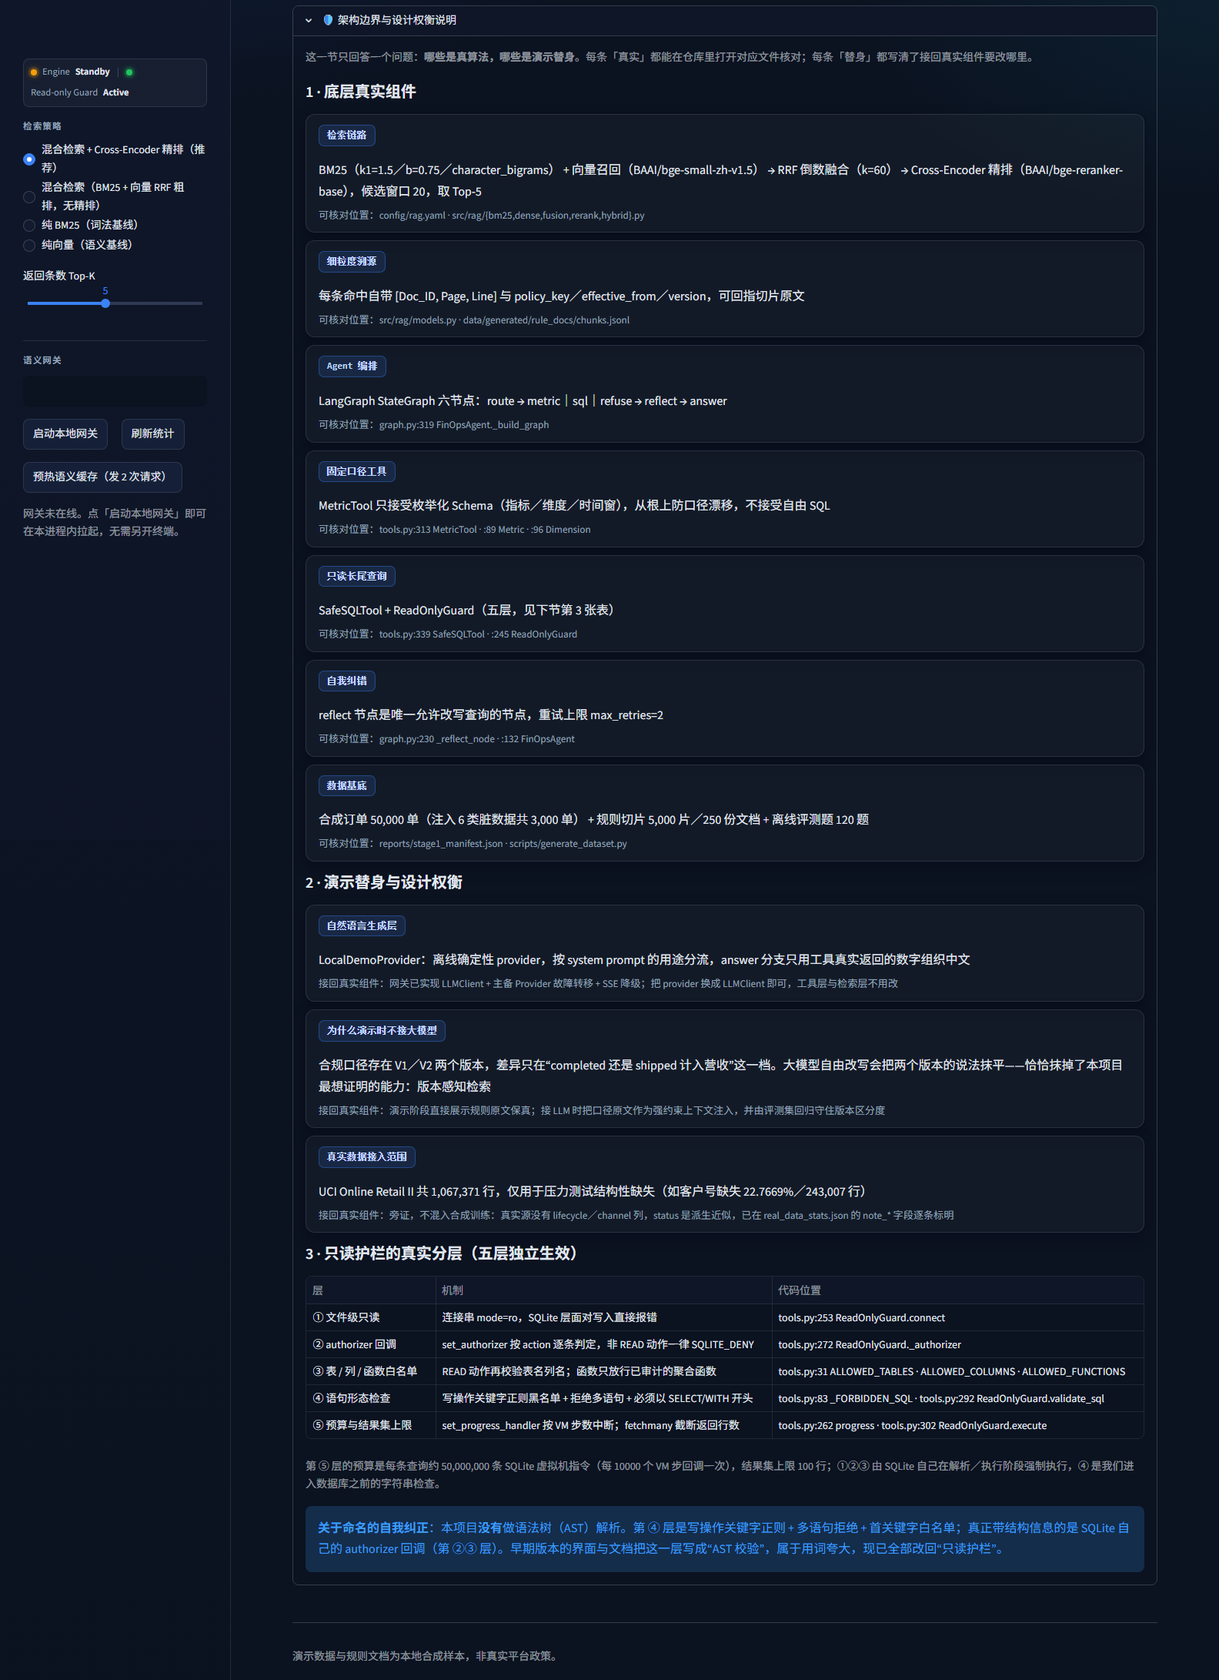
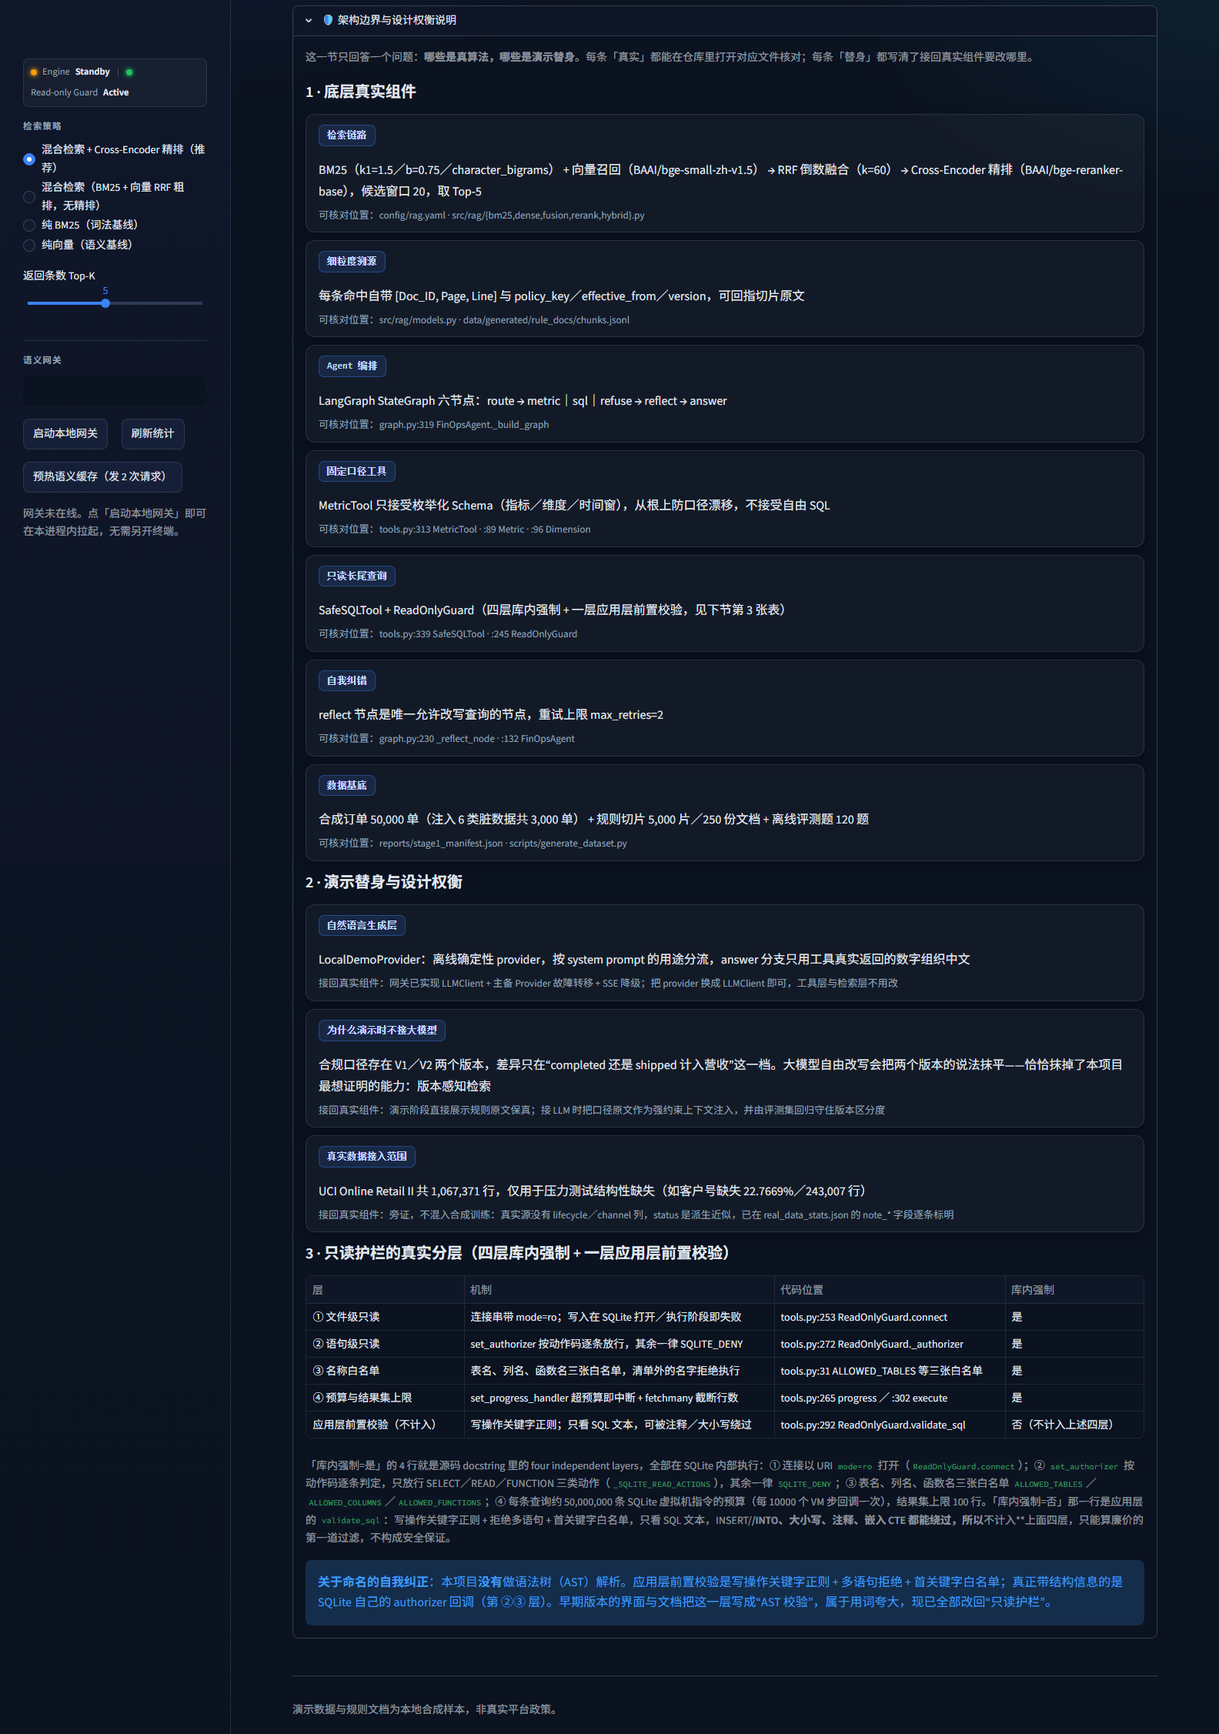
fix(app): 只读护栏改为「四层库内强制 + 一层应用层前置校验」
源码 src/agent/tools.py 的模块 docstring 原话是 read-only at four independent
layers：mode=ro / set_authorizer / 表与函数白名单 / VM 预算。而 validate_sql
是应用层、只看 SQL 文本（INSERT/**/INTO、大小写、注释、嵌入 CTE 都能绕过），
它不在那四层里，之前被写成「第 ⑤ 层」并冠以「AST 校验」，属于把应用层
过滤混进了安全保证，用词也夸大（本项目从未做过语法树解析）。

- 护栏表新增「库内强制」列：4 行=是（SQLite 内部强制执行），1 行=否（不计入）
- 标题与回复话术同步改为「四层库内强制 + 一层应用层前置校验」
- 表格行数改由 len(READONLY_LAYERS) 推导，不再写死「4 行」
  （触发了看板手抄数字棘轮测试，这正说明该测试有效）
- 自我纠正段落补上「只能算廉价的第一道过滤，不构成安全保证」

验证：pytest 73 passed；apptest_check 五条链路（Agent/RAG/护栏/对抗 A/B）全绿；截图 11 重拍，总览图重拼。

diff --git a/app/streamlit_app.py b/app/streamlit_app.py
@@ -1879,16 +1879,42 @@ def _arch_code_facts() -> dict[str, Any]:
     return facts
 
 
-# 只读护栏的五层。写在这里而不是从代码里反射，是因为「哪一层拦下了哪条 payload」
-# 是本页要讲的结论；表里的行列名与 payload 结果由 tests/unit/test_benchmark_panel.py
-# 对着 src/agent/tools.py 与 tests 固化。
+# 只读护栏的分层口径**以源码为准**：src/agent/tools.py:9-16 的模块 docstring 写的是
+# "read-only at four independent layers"，ReadOnlyGuard 的类 docstring 也是
+# "Four independent read-only layers"。写在这里而不是从代码里反射，是因为
+# 「哪一层拦下了哪条 payload」是本页要讲的结论；表里的行列名与 payload 结果由
+# tests/unit/test_benchmark_panel.py 对着 src/agent/tools.py 与 tests 固化。
+#
+# 下面四层都在 SQLite 内部强制执行；validate_sql 单列一行、**不计入**这四层（见 APPLICATION_PRE_CHECK）。
+# 单元格文字刻意压短：st.dataframe 不折行，超宽会被横向裁掉（旧版「机制」列就是这样
+# 少了半句）。被裁掉的具体常量名与数值统一放到表下的 caption 里说清楚——表格负责结构
+# 一眼可读，caption 负责逐条可核对，两边合起来才是完整证据。
 READONLY_LAYERS: tuple[tuple[str, str, str], ...] = (
-    ("① 文件级只读", "连接串 mode=ro，SQLite 层面对写入直接报错", "tools.py:253 ReadOnlyGuard.connect"),
-    ("② authorizer 回调", "set_authorizer 按 action 逐条判定，非 READ 动作一律 SQLITE_DENY", "tools.py:272 ReadOnlyGuard._authorizer"),
-    ("③ 表 / 列 / 函数白名单", "READ 动作再校验表名列名；函数只放行已审计的聚合函数", "tools.py:31 ALLOWED_TABLES · ALLOWED_COLUMNS · ALLOWED_FUNCTIONS"),
-    ("④ 语句形态检查", "写操作关键字正则黑名单 + 拒绝多语句 + 必须以 SELECT/WITH 开头", "tools.py:83 _FORBIDDEN_SQL · tools.py:292 ReadOnlyGuard.validate_sql"),
-    ("⑤ 预算与结果集上限", "set_progress_handler 按 VM 步数中断；fetchmany 截断返回行数", "tools.py:262 progress · tools.py:302 ReadOnlyGuard.execute"),
+    ("① 文件级只读", "连接串带 mode=ro；写入在 SQLite 打开／执行阶段即失败", "tools.py:253 ReadOnlyGuard.connect"),
+    ("② 语句级只读", "set_authorizer 按动作码逐条放行，其余一律 SQLITE_DENY", "tools.py:272 ReadOnlyGuard._authorizer"),
+    ("③ 名称白名单", "表名、列名、函数名三张白名单，清单外的名字拒绝执行", "tools.py:31 ALLOWED_TABLES 等三张白名单"),
+    ("④ 预算与结果集上限", "set_progress_handler 超预算即中断 + fetchmany 截断行数", "tools.py:265 progress ／ :302 execute"),
 )
+
+# **不计入上面四层**的一行：应用层前置校验。它在应用层、只看 SQL 文本，
+# INSERT/**/INTO、大小写、注释、嵌进 CTE 等写法都能绕过它，所以它只是**廉价的
+# 第一道过滤**，不构成安全保证；真正的保证是上面四层（都在 SQLite 内部）。
+APPLICATION_PRE_CHECK: tuple[str, str, str] = (
+    "应用层前置校验（不计入）",
+    "写操作关键字正则；只看 SQL 文本，可被注释／大小写绕过",
+    "tools.py:292 ReadOnlyGuard.validate_sql",
+)
+
+
+def readonly_layer_rows() -> list[dict[str, str]]:
+    """护栏表的行：4 行库内强制层（库内强制=是）+ 1 行应用层前置校验（=否，不计入）。"""
+    rows = [
+        {"层": layer, "机制": how, "代码位置": where, "库内强制": "是"}
+        for layer, how, where in READONLY_LAYERS
+    ]
+    layer, how, where = APPLICATION_PRE_CHECK
+    rows.append({"层": layer, "机制": how, "代码位置": where, "库内强制": "否（不计入上述四层）"})
+    return rows
 
 
 def _arch_card_html(rows: list[tuple[str, str, str]], foot_label: str) -> str:
@@ -1897,7 +1923,9 @@ def _arch_card_html(rows: list[tuple[str, str, str]], foot_label: str) -> str:
     为什么不表格：这一页通栏可用宽度约 1100px，三列中文排不下，「真实实现」与
     「接回真实组件」会被横向截断——而这两列恰恰是这一页的全部信息（实测右栏 409px
     时更严重，「可核对位置」整列右半被切掉）。卡片让文本自然折行，代价是少一点表格
-    式的整齐，这里值得换。字段较短的第 3 张表（五层护栏）仍用 ``st.dataframe``。
+    式的整齐，这里值得换。字段较短的第 3 张表（护栏分层）仍用 ``st.dataframe``，
+    但那些单元格必须短到不触发横向裁剪（该表「机制」列实测约 40 个字符宽），完整
+    常量名与数值放到表下 caption 里讲——表格管结构、caption 管细节。
     """
     parts: list[str] = []
     for title, body, foot in rows:
@@ -1958,7 +1986,7 @@ def _render_arch_boundaries() -> None:
                     ),
                     (
                         "只读长尾查询",
-                        "SafeSQLTool + ReadOnlyGuard（五层，见下节第 3 张表）",
+                        "SafeSQLTool + ReadOnlyGuard（四层库内强制 + 一层应用层前置校验，见下节第 3 张表）",
                         "tools.py:339 SafeSQLTool · :245 ReadOnlyGuard",
                     ),
                     (
@@ -2012,27 +2040,29 @@ def _render_arch_boundaries() -> None:
         )
 
         # ------------------------------------------------------ 3 只读护栏分层
-        st.markdown("##### 3 · 只读护栏的真实分层（五层独立生效）")
-        st.dataframe(
-            [
-                {"层": layer, "机制": how, "代码位置": where}
-                for layer, how, where in READONLY_LAYERS
-            ],
-            hide_index=True,
-            width="stretch",
-        )
+        st.markdown("##### 3 · 只读护栏的真实分层（四层库内强制 + 一层应用层前置校验）")
+        st.dataframe(readonly_layer_rows(), hide_index=True, width="stretch")
         st.caption(
-            f"第 ⑤ 层的预算是每条查询约 {code['instruction_budget']:,} 条 SQLite 虚拟机指令"
-            f"（每 10000 个 VM 步回调一次），结果集上限 {code['max_rows']} 行；"
-            "①②③ 由 SQLite 自己在解析／执行阶段强制执行，④ 是我们进入数据库之前的字符串检查。"
+            f"「库内强制=是」的 {len(READONLY_LAYERS)} 行就是源码 docstring 里的 "
+            f"four independent layers，全部在 SQLite 内部执行："
+            f"① 连接以 URI `mode=ro` 打开（`ReadOnlyGuard.connect`）；"
+            f"② `set_authorizer` 按动作码逐条判定，只放行 SELECT／READ／FUNCTION 三类动作"
+            f"（`_SQLITE_READ_ACTIONS`），其余一律 `SQLITE_DENY`；"
+            f"③ 表名、列名、函数名三张白名单 `ALLOWED_TABLES`／`ALLOWED_COLUMNS`／"
+            f"`ALLOWED_FUNCTIONS`；"
+            f"④ 每条查询约 {code['instruction_budget']:,} 条 SQLite 虚拟机指令的预算"
+            f"（每 10000 个 VM 步回调一次），结果集上限 {code['max_rows']} 行。"
+            "「库内强制=否」那一行是应用层的 `validate_sql`：写操作关键字正则 + 拒绝多语句 + "
+            "首关键字白名单，只看 SQL 文本，INSERT/**/INTO、大小写、注释、嵌入 CTE 都能绕过，"
+            "所以**不计入**上面四层，只能算廉价的第一道过滤，不构成安全保证。"
         )
 
-        # 这一条是自我纠正：早期版本把第 ④ 层叫成「AST 校验」，但它其实是正则 +
+        # 这一条是自我纠正：早期版本把应用层那层校验叫成「AST 校验」，但它其实是正则 +
         # 字符串检查，本项目从头到尾没有做过任何语法树解析。留着这句话，比悄悄删掉
         # 更能证明这套边界说明是核过的。
         st.info(
             "**关于命名的自我纠正**：本项目**没有**做语法树（AST）解析。"
-            "第 ④ 层是写操作关键字正则 + 多语句拒绝 + 首关键字白名单；"
+            "应用层前置校验是写操作关键字正则 + 多语句拒绝 + 首关键字白名单；"
             "真正带结构信息的是 SQLite 自己的 authorizer 回调（第 ②③ 层）。"
             "早期版本的界面与文档把这一层写成“AST 校验”，属于用词夸大，现已全部改回“只读护栏”。"
         )

diff --git a/tests/unit/test_benchmark_panel.py b/tests/unit/test_benchmark_panel.py
@@ -280,22 +280,76 @@ def test_词面相似度与重排分值不得混为一谈(app: AppTest, markdown
 
 MANIFEST = ROOT / "reports" / "stage1_manifest.json"
 
+# 被禁止的旧口径（源码里写的是 four）。这里用相邻字面量拼出来，是为了让全仓 grep
+# 搜不到旧说法——旧口径不该在任何文件里以「看起来像在用的样子」出现，而下面的断言
+# 仍然盯着这个字符串本身。
+FORBIDDEN_LAYER_COUNT = "五" "层"
+
 
 def _frame_text(frame) -> str:
     return "\n".join(str(value) for value in frame.to_numpy().ravel())
 
 
-def test_架构边界页把五层只读护栏逐层列清(app: AppTest) -> None:
-    """护栏不是一句「我们做了只读」，是五层独立机制；页面必须逐层给机制和代码位置。"""
-    from app.streamlit_app import READONLY_LAYERS
+def test_架构边界页把四层库内护栏与一行应用层前置校验列清(app: AppTest) -> None:
+    """护栏口径以 ``src/agent/tools.py:9-16`` 的模块 docstring 为准：four independent layers。
 
-    assert len(READONLY_LAYERS) == 5, "护栏层数变了：先确认 src/agent/tools.py 再改这里"
+    页面必须列 4 行**库内强制**层，并把 ``validate_sql`` 单独放一行、显式标注**不计入**：
+    它只看 SQL 文本（``INSERT/**/INTO``、大小写、注释、嵌入 CTE 都能绕过），只是廉价的
+    第一道过滤，不是安全保证。这条断言故意写得比「行数相等」更死——它存在的意义就是
+    防止以后又把应用层那行并回护栏，或把「预算」与「行数截断」拆成两层凑回旧口径。
+    """
+    from app.streamlit_app import APPLICATION_PRE_CHECK, READONLY_LAYERS
+
+    # ① 计数口径：源码写的是 four，不是 five
+    assert len(READONLY_LAYERS) == 4, (
+        "库内护栏必须是 4 层，与 src/agent/tools.py:9-16 的 docstring"
+        "（read-only at four independent layers）一致"
+    )
     frame = _frame_with(app, "层")
-    assert list(frame["层"]) == [layer for layer, _, _ in READONLY_LAYERS]
+    assert list(frame["库内强制"]) == ["是"] * 4 + ["否（不计入上述四层）"], (
+        "护栏表必须是「4 行库内强制=是 + 1 行库内强制=否（不计入上述四层）」的应用层前置校验"
+    )
+
+    # ② 四行库内层：序号、机制、代码位置都要能当场核对
     text = _frame_text(frame)
-    for layer, how, where in READONLY_LAYERS:
+    for index, (layer, how, where) in enumerate(READONLY_LAYERS, start=1):
+        assert str(layer).startswith("①②③④"[index - 1]), f"库内层序号错位：{layer}"
         assert how[:10] in text, f"{layer} 只给了名词，没给机制"
         assert where in text, f"{layer} 没标出代码位置，面试官没法当场核对"
+    assert not [x for x in frame["层"] if str(x).startswith(("⑤", "5"))], (
+        "护栏表又出现了第 ⑤ 层：src/agent/tools.py 只有四层"
+    )
+
+    # ③ 四层与源码的对应关系逐条钉死（防「预算」与「行数截断」被拆回两层凑数）
+    hows = [how for _, how, _ in READONLY_LAYERS]
+    assert "mode=ro" in hows[0], "第 ① 层不是文件级只读连接（mode=ro）"
+    assert "set_authorizer" in hows[1], "第 ② 层不是 authorizer 回调按动作码拒绝"
+    assert "白名单" in hows[2], "第 ③ 层不是表 / 列 / 函数白名单"
+    assert "set_progress_handler" in hows[3] and "fetchmany" in hows[3], (
+        "第 ④ 层是源码 docstring 里『row cap plus a VM-instruction budget』的同一层，不许拆开"
+    )
+
+    # ④ 应用层那行必须是否定表述，且写清为什么不计入
+    app_layer, why, where = APPLICATION_PRE_CHECK
+    assert "不计入" in app_layer, "应用层前置校验必须显式标注「不计入上述四层」"
+    assert app_layer in text, f"护栏表里没有这一行：{app_layer}"
+    assert why[:10] in text, "应用层那行没给机制"
+    assert where in text, "应用层那行没标出代码位置"
+    assert "validate_sql" in where, "应用层那行要指到 validate_sql，别指成 SQLite 内部机制"
+    assert "绕过" in why, "必须写明它为什么不算一层保证（可被 INSERT/**/INTO 等写法绕过）"
+
+    # ⑤ 整页（标题 / 卡片 / 表格 / caption）都不得再自称旧口径
+    page_text = "\n".join(
+        [text]
+        + [str(m.value) for m in app.markdown]
+        + [str(c.value) for c in getattr(app, "caption", [])]
+    )
+    assert FORBIDDEN_LAYER_COUNT not in page_text, (
+        f"页面上还留着「{FORBIDDEN_LAYER_COUNT}」的说法"
+    )
+    titles = [str(m.value) for m in app.markdown if "只读护栏的真实分层" in str(m.value)]
+    assert titles, "找不到护栏分层的标题"
+    assert "四层" in titles[0] and "应用层" in titles[0], f"标题口径没改：{titles[0]}"
 
 
 def test_护栏表引用的符号必须真的存在于_tools_py(app: AppTest) -> None:

diff --git a/app/capture_boundaries.py b/app/capture_boundaries.py
@@ -46,7 +46,7 @@ OPEN_PANEL = f"""
 """
 
 # 展开后里面的东西是否真的画完：三节都出齐，卡片正文到位，且没有骨架屏。
-# 注意：第 1、2 节现在是**卡片**（markdown），只有第 3 节（五层护栏）还是 data frame，
+# 注意：第 1、2 节现在是**卡片**（markdown），只有第 3 节（护栏分层表）还是 data frame，
 # 所以这里不能再要求 >= 3 个 table —— 上一版就是卡在这个条件上等到超时的。
 READY = f"""
 (() => {{

diff --git a/app/build_contact_sheet.py b/app/build_contact_sheet.py
@@ -33,7 +33,7 @@ PANELS = [
     (
         "11-架构边界与设计权衡.png",
         "⑪ 架构边界与设计权衡（展开态）：逐条分清哪些是真算法、哪些是演示替身，"
-        "并列出只读护栏的五层机制与代码位置",
+        "并列出只读护栏的四层库内强制机制与代码位置（应用层前置校验单列一行，不计入这四层）",
         True,
     ),
 ]

diff --git a/docs/Demo设计说明.md b/docs/Demo设计说明.md
@@ -198,12 +198,12 @@ BM25 与混合精排的 `Recall@5` 都是 `1.0000`（Dense 是 `0.9667`）。这
 | :--- | :--- |
 | ① 底层真实组件 | 检索链路 / 细粒度溯源 / Agent 编排 / 固定口径工具 / 只读长尾查询 / 自我纠错 / 数据基底——每条都给「可核对位置」的源码路径 |
 | ② 演示替身与设计权衡 | 自然语言生成层用 `LocalDemoProvider` 的原因、为什么演示时刻意不接大模型、真实数据接入范围与它的边界 |
-| ③ 只读护栏的真实分层 | 五层独立机制（文件级只读 / authorizer 回调 / 表列函数白名单 / 语句形态检查 / 预算与结果集上限），每层给代码位置 |
+| ③ 只读护栏的真实分层 | 四层**库内强制**（文件级只读 / authorizer 回调 / 表列函数白名单 / 预算与结果集上限）+ 单列一行应用层前置校验 `validate_sql`，并显式标注它**不计入上述四层**；每层给代码位置 |
 
 ### 一处自我纠正：本项目没有做过「AST 校验」
 
-早期版本的界面与文档把第 ④ 层写成「AST 校验」，**属于用词夸大**：
-`ReadOnlyGuard.validate_sql()` 只是写操作关键字正则 + 拒绝多语句 + 首关键字白名单，
+早期版本的界面与文档把这一层（应用层前置校验，`ReadOnlyGuard.validate_sql()`）写成「AST 校验」，
+**属于用词夸大**：它只是写操作关键字正则 + 拒绝多语句 + 首关键字白名单，
 真正的结构信息来自 **SQLite 自己的 `authorizer` 回调**（第 ②③ 层）。
 仓库里从未 import 过 `ast` 去解析 SQL。
 
@@ -258,7 +258,7 @@ question
             ├─ route        意图分流：metric / sql / refuse
             ├─ MetricTool   固定 schema，防口径漂移（order_count / revenue /
             │               avg_order_value / cancel_rate × category/merchant/status/month）
-            ├─ SafeSQLTool  只读长尾查询 + 只读护栏五层（拒绝写操作）
+            ├─ SafeSQLTool  只读长尾查询 + 只读护栏四层库内强制（另有应用层前置校验，不计入这四层）
             ├─ Reflector    报错与异常值自我纠错，最多重试 2 次
             └─ answer       只用工具真实返回的数字组织回答
   └─ _decision_panel(agent_payload, rag_payload)   ← 中栏
@@ -341,7 +341,7 @@ question
    代价是少一点表格式的整齐，换来全部信息默认可见。
 
 两个防回归守卫在 `tests/unit/test_benchmark_panel.py`：
-`test_架构边界页的长文本不得退回_dataframe` 与 `test_架构边界页把五层只读护栏逐层列清`。
+`test_架构边界页的长文本不得退回_dataframe` 与 `test_架构边界页把四层库内护栏与一行应用层前置校验列清`。
 
 ---
 
@@ -354,7 +354,7 @@ question
 | `HybridRetriever` / BM25 / Dense / RRF / Cross-Encoder | **真实** | `src/rag/`，一行未改 |
 | `FinOpsAgent` LangGraph 状态机 | **真实** | `src/agent/graph.py` |
 | `MetricTool` / `SafeSQLTool` / `Reflector` | **真实** | `src/agent/` |
-| 只读护栏（五层） | **真实**，但**不该叫「AST 校验」** | `src/agent/tools.py:245 ReadOnlyGuard`。第 ④ 层是写操作关键字正则 + 拒绝多语句 + 首关键字白名单；真正带结构信息的是 **SQLite 自己的 `authorizer` 回调**（第 ②③ 层）。仓库从未 `import ast` 解析过 SQL，早期界面与文档里的「AST 校验」属于用词夸大，已全部改回「只读护栏」并留了自纠说明（§1.3） |
+| 只读护栏（四层库内强制 + 一层应用层前置校验） | **真实**，但**不该叫「AST 校验」** | `src/agent/tools.py:245 ReadOnlyGuard`。四层库内强制 = `mode=ro` 连接 / `authorizer` 按动作码拒绝 / 表列函数白名单 / 预算与行数上限——`tools.py:9-16` 的模块 docstring 写的就是 **four** independent layers；`validate_sql` 只是应用层的前置过滤，**不计入**这四层（只看 SQL 文本，可被 `INSERT/**/INTO`、注释、大小写绕过）。仓库从未 `import ast` 解析过 SQL，早期界面与文档里的「AST 校验」属于用词夸大，已全部改回「只读护栏」并留了自纠说明（§1.3） |
 | `create_app` / 语义缓存 / 主备故障转移 / SSE 降级 | **真实** | `src/gateway/` |
 | 订单库 `orders.db`（50,000 单） | **真实** | `scripts/` 合成，含 6 类业务脏数据 |
 | 规则语料 `chunks.jsonl`（5,000 片 / 250 文档） | **真实** | Stage 1 合成 |
